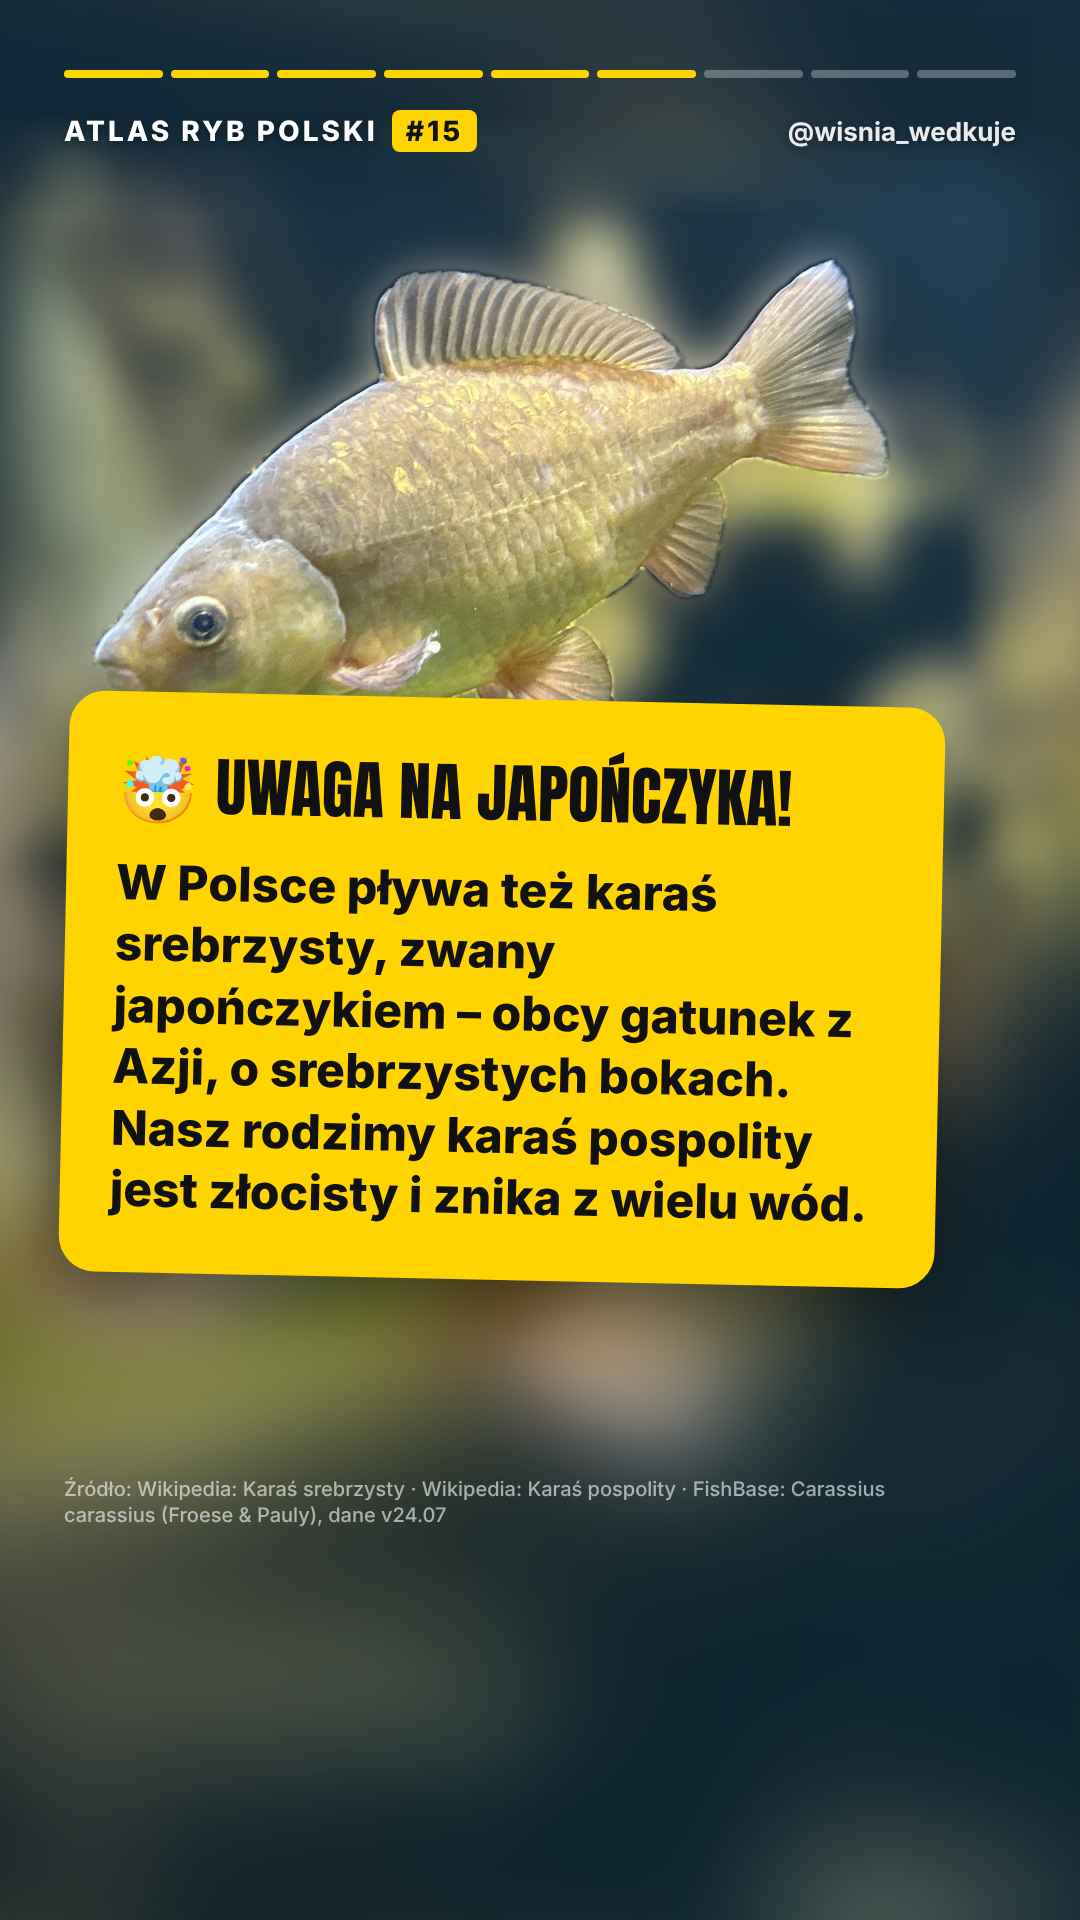
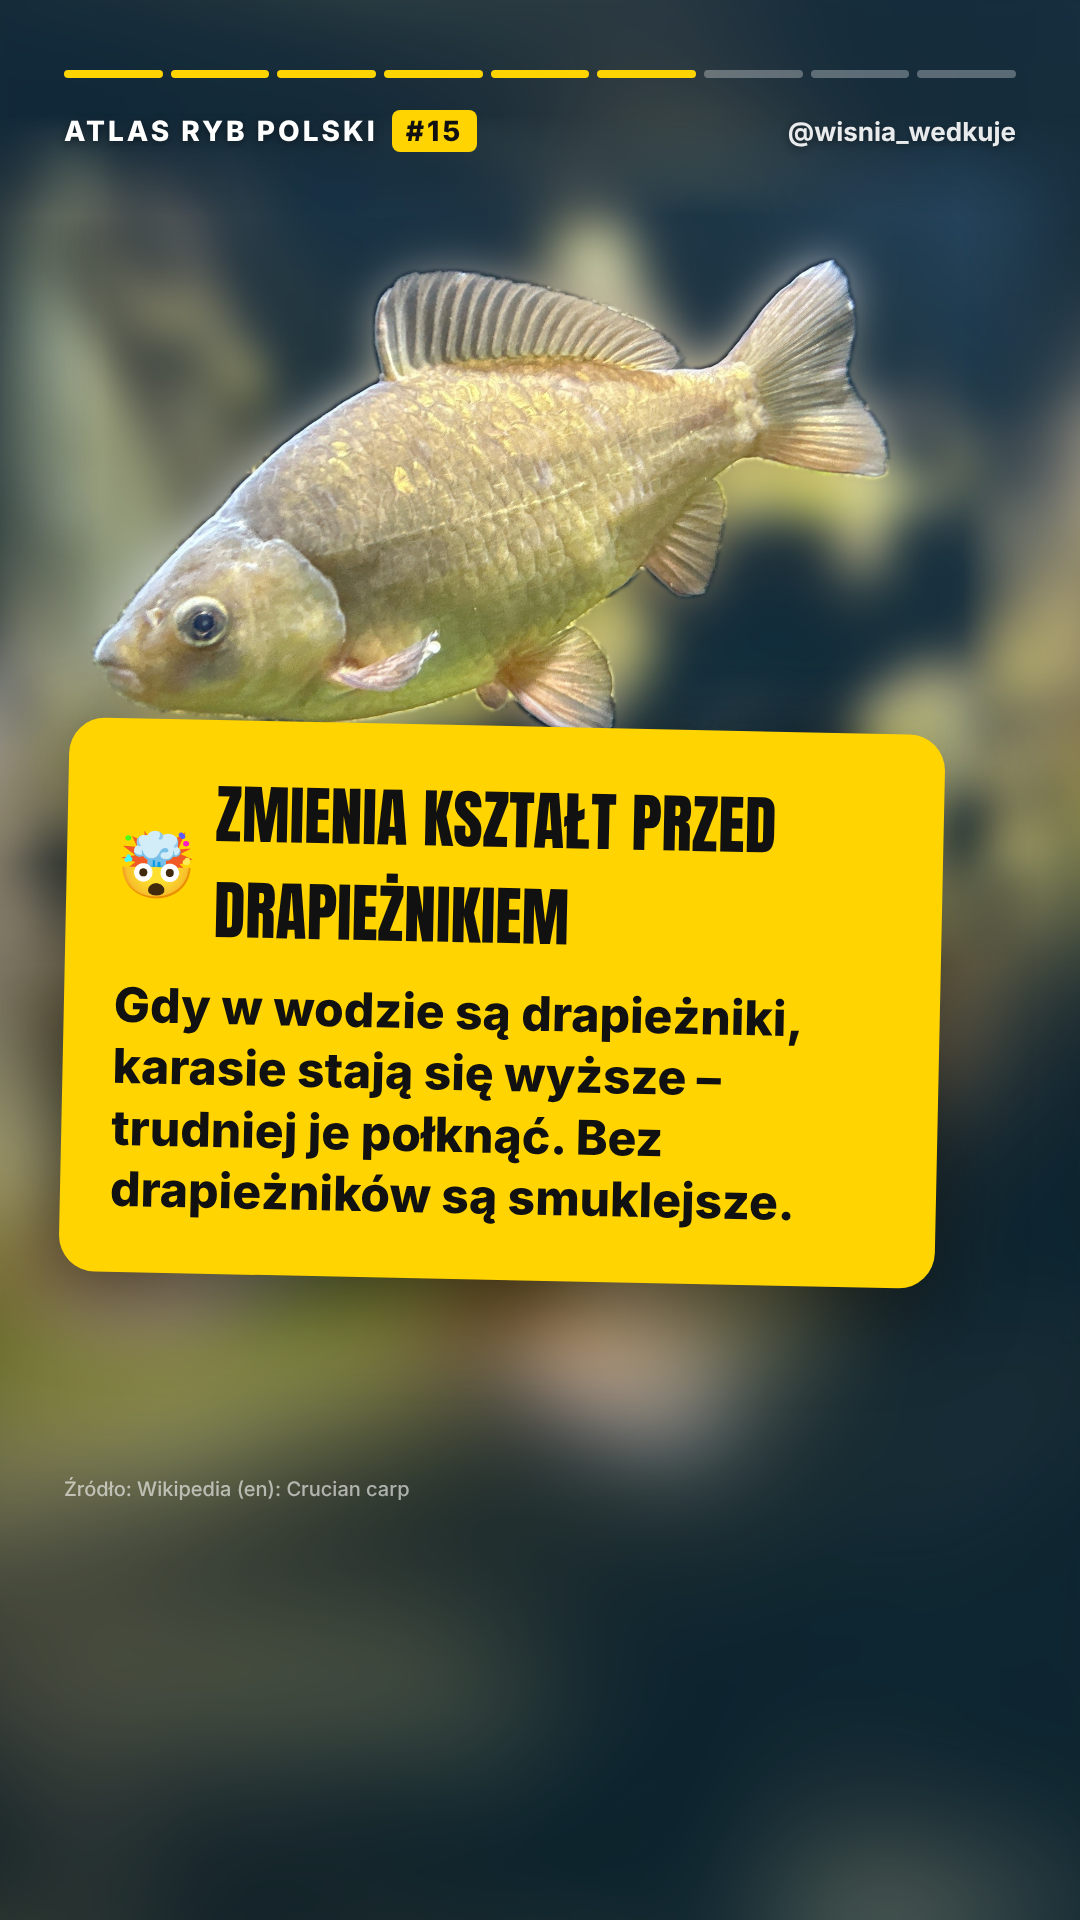
Karaś 15: ciekawostka o zmianie kształtu, informacja o japończyku w scenie rozpoznania; punkt rozpoznania bez kropki
Claude-Session: https://claude.ai/code/session_01P9R5v2yPFHwMJVw1yZXoPw

diff --git a/atlas/sceny.js b/atlas/sceny.js
@@ -39,6 +39,7 @@ window.zbudujSceny = function () {
     else
       h += `<div class="kb" style="${origin}"><img class="foto ${L ? 'lustro' : ''}" src="${src(Z.plik)}" style="left:${left}px;top:${top}px;width:${Z.w * s}px"></div>`;
     (opt.punkty || []).forEach((p, i) => {
+      if (!p) return; // punkt bez kropki (np. uwaga „nie myl z…”)
       const px = L ? left + (Z.w - p[0]) * s : left + p[0] * s;
       h += `<div class="dot" data-a="pop" ${opt.przy?.[i] ? `data-przy="${opt.przy[i]}"` : `data-d="${0.3 + i * 0.4}"`} style="left:${px}px;top:${top + p[1] * s}px">${i + 1}</div>`;
     });

diff --git a/atlas/scenariusze/karas.md b/atlas/scenariusze/karas.md
@@ -4,17 +4,17 @@ Głos: ElevenLabs „JA Paweł” (`bHIh6fgsLVytKSOdaWBi`), model eleven_v4, jed
 
 Hook (zasada: psychologiczny / kreatywny / mega ciekawy), warianty z hook-writer:
 1. „Ta ryba przeżyje bez tlenu!” (niemożliwe + konkret: alkohol, 140 dni) – **wybrany**.
-2. „Ta ryba zmienia kształt, gdy w wodzie jest szczupak” – odłożony; ciekawostka o japończyku (prośba użytkownika).
+2. „Ta ryba zmienia kształt, gdy w wodzie jest szczupak” – **wybrany jako ciekawostka**; informacja o japończyku w scenie 3 (prośba użytkownika).
 3. „W dwóch okręgach PZW tej ryby nie wolno zabrać” – wykorzystany w scenie 8.
 
 | # | Klatka | Tekst lektora | Źródło |
 |---|---|---|---|
 | 1 | Hook | Przeżywa bez tlenu kilka tygodni; zimą wytwarza alkohol zamiast kwasu mlekowego i wydala go do wody; w doświadczeniach 140 dni. | wiki_en („survive … by ethanol fermentation”, „several weeks on end”, „maintained under anoxic conditions for 140 days”, „excretes the ethanol into the water”) |
 | 2 | Karta | Karaś pospolity; wśród kręgowców to wyjątkowy talent. | wiki_en („highly unusual among vertebrates”) |
-| 3 | Rozpoznanie | Bardzo wysokie, krótkie ciało z dużymi łuskami; długa płetwa grzbietowa z wypukłą krawędzią; złocistobrązowe boki. | wiki_pl |
+| 3 | Rozpoznanie | Wysokie, krótkie ciało, duże łuski, długa płetwa grzbietowa z wypukłą krawędzią, złocistobrązowe boki. Nie pomyl z karasiem srebrzystym („japończyk”) – obcy gatunek z Azji o srebrzystych bokach; rodzimy, złocisty karaś znika z wielu wód, prawdopodobnie przez konkurencję z nim. | wiki_pl, wiki_pl_srebrzysty („Nazywany jest również japończykiem”, introdukowany, „boki srebrzyste”), fishbase („extirpation … possibly due to competition with introduced Carassius gibelio”) |
 | 4 | Rozmiary | 64 cm, 10 lat; forma karłowata ok. 10 cm po 8–10 latach w wodach ubogich w tlen. | fishbase, wiki_pl |
 | 5 | Występowanie | Małe, płytkie zbiorniki (stawy, glinianki, torfianki), starorzecza; przy brzegu, wśród roślin, nad mulistym dnem; najliczniej bez innych ryb. | wiki_pl, fishbase („very abundant in the absence of other fish species”) |
-| 6 | Ciekawostka | W Polsce pływa też karaś srebrzysty („japończyk”) – obcy gatunek z Azji, srebrzyste boki; rodzimy karaś pospolity jest złocisty i znika z wielu wód, prawdopodobnie przez konkurencję z japończykiem. | wiki_pl_srebrzysty („Nazywany jest również japończykiem”, introdukowany, „boki srebrzyste”), wiki_pl („Grzbiet i boki brunatnozłociste”), fishbase („extirpation in many water bodies … possibly due to competition with introduced Carassius gibelio”) |
+| 6 | Ciekawostka | Przy drapieżnikach karasie stają się wyższe, trudniej je połknąć; bez nich smuklejsze. | wiki_en (Predator defenses) |
 | 7 | Rekord Polski | 4,76 kg i 61 cm – Tomasz Dylewicz, 2024. | ww, wiki_pl (rekord przypisany karasiowi pospolitemu) |
 | 8 | Przepisy | Państwowo brak wymiaru i okresu; PZW Kraków i Radom – całkowity zakaz zabierania karasia pospolitego. | rozp2023 (karaś nie występuje w wykazie), `pzw/krakow.txt` („karaś pospolity – całkowity zakaz zatrzymywania”), `pzw/radom.txt` („karaś pospolity całkowity zakaz zabierania”) |
 | 9 | CTA | Następny gatunek: pstrąg potokowy. | – |
@@ -24,4 +24,3 @@ Hook (zasada: psychologiczny / kreatywny / mega ciekawy), warianty z hook-writer
 - **Wałbrzych: wymiar 25 cm; Zielona Góra: zapis „od 45”** – różne zasady w okręgach; w rolce tylko pewny, najmocniejszy przykład (całkowity zakaz w Krakowie i Radomiu).
 - **Rozróżnianie z karasiem srebrzystym (płetwa wklęsła)**: w Wikipedii en zdanie bez przypisu.
 - **Wypieranie przez karasia srebrzystego** (FishBase): pominięte dla długości rolki.
-- **Zmiana kształtu ciała przy drapieżnikach** (wiki_en): zastąpione ciekawostką o japończyku.
